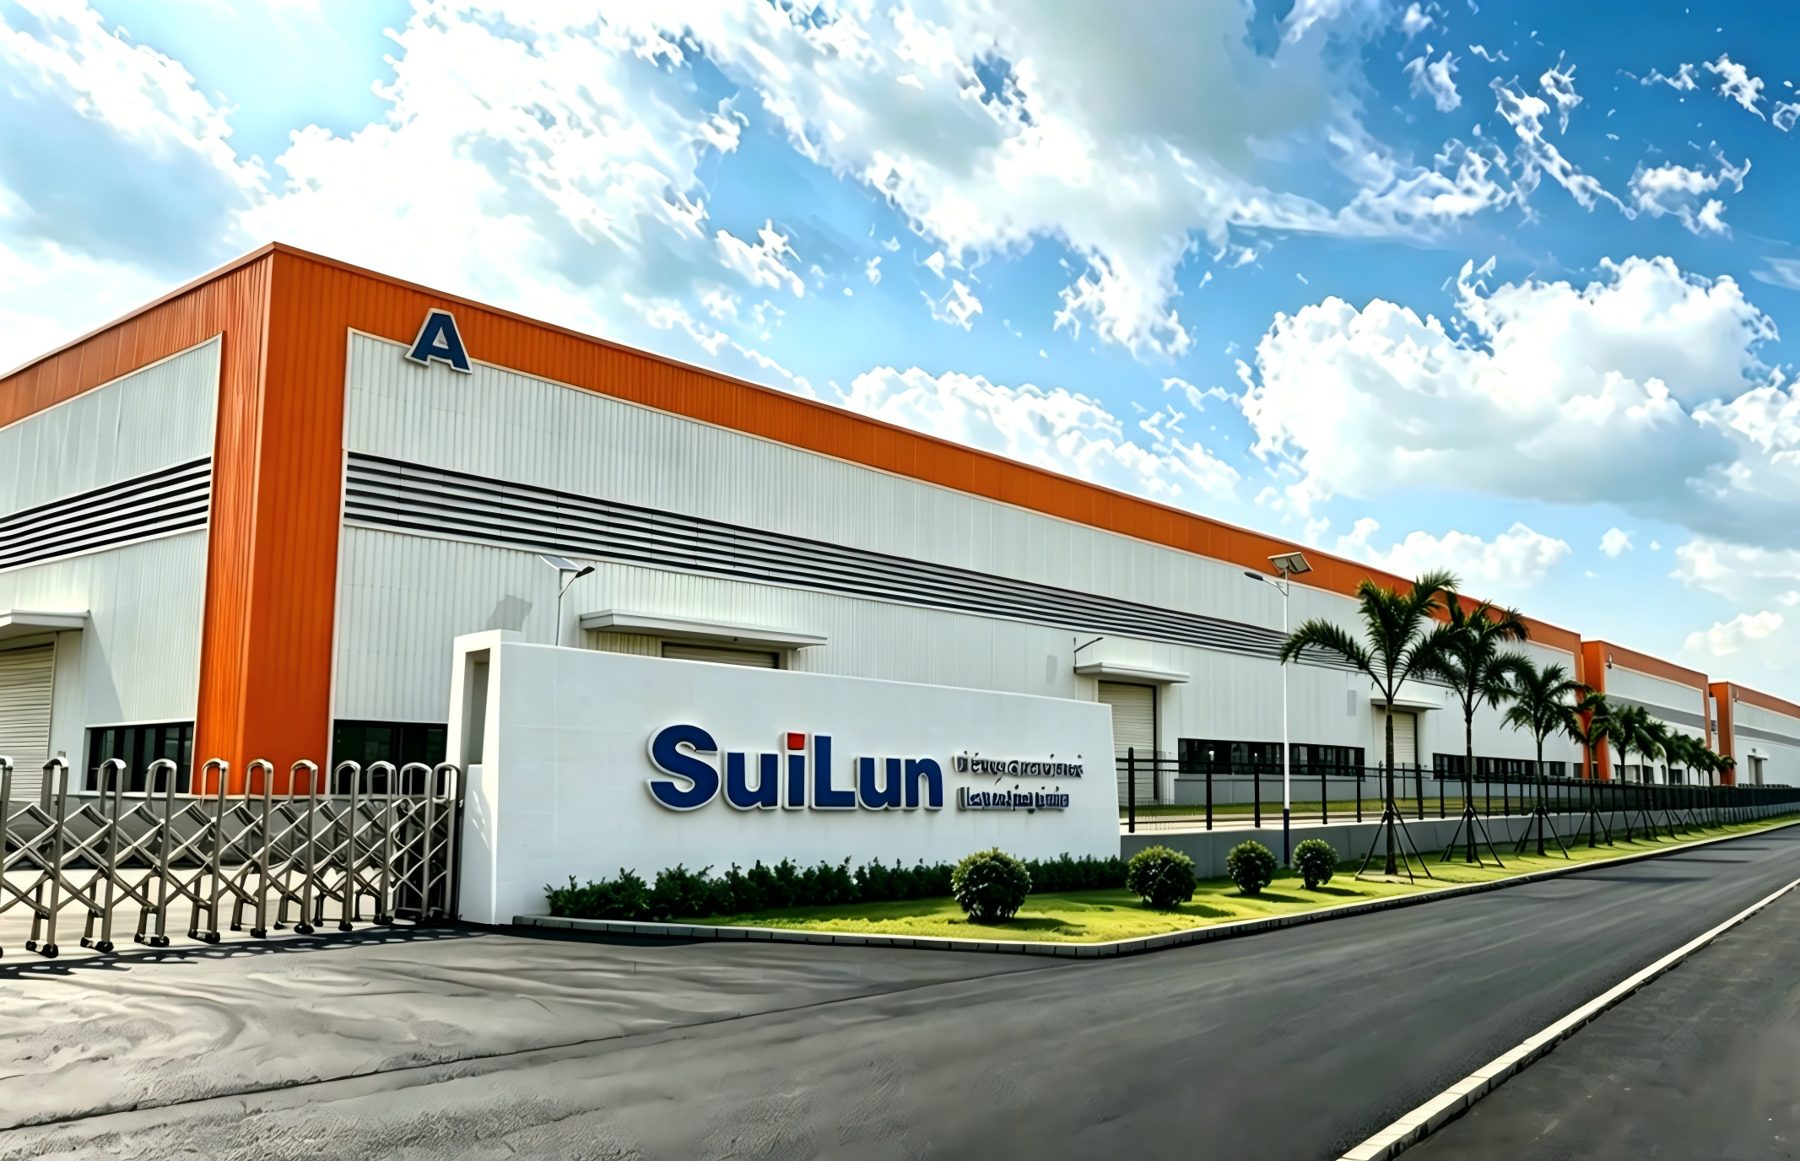
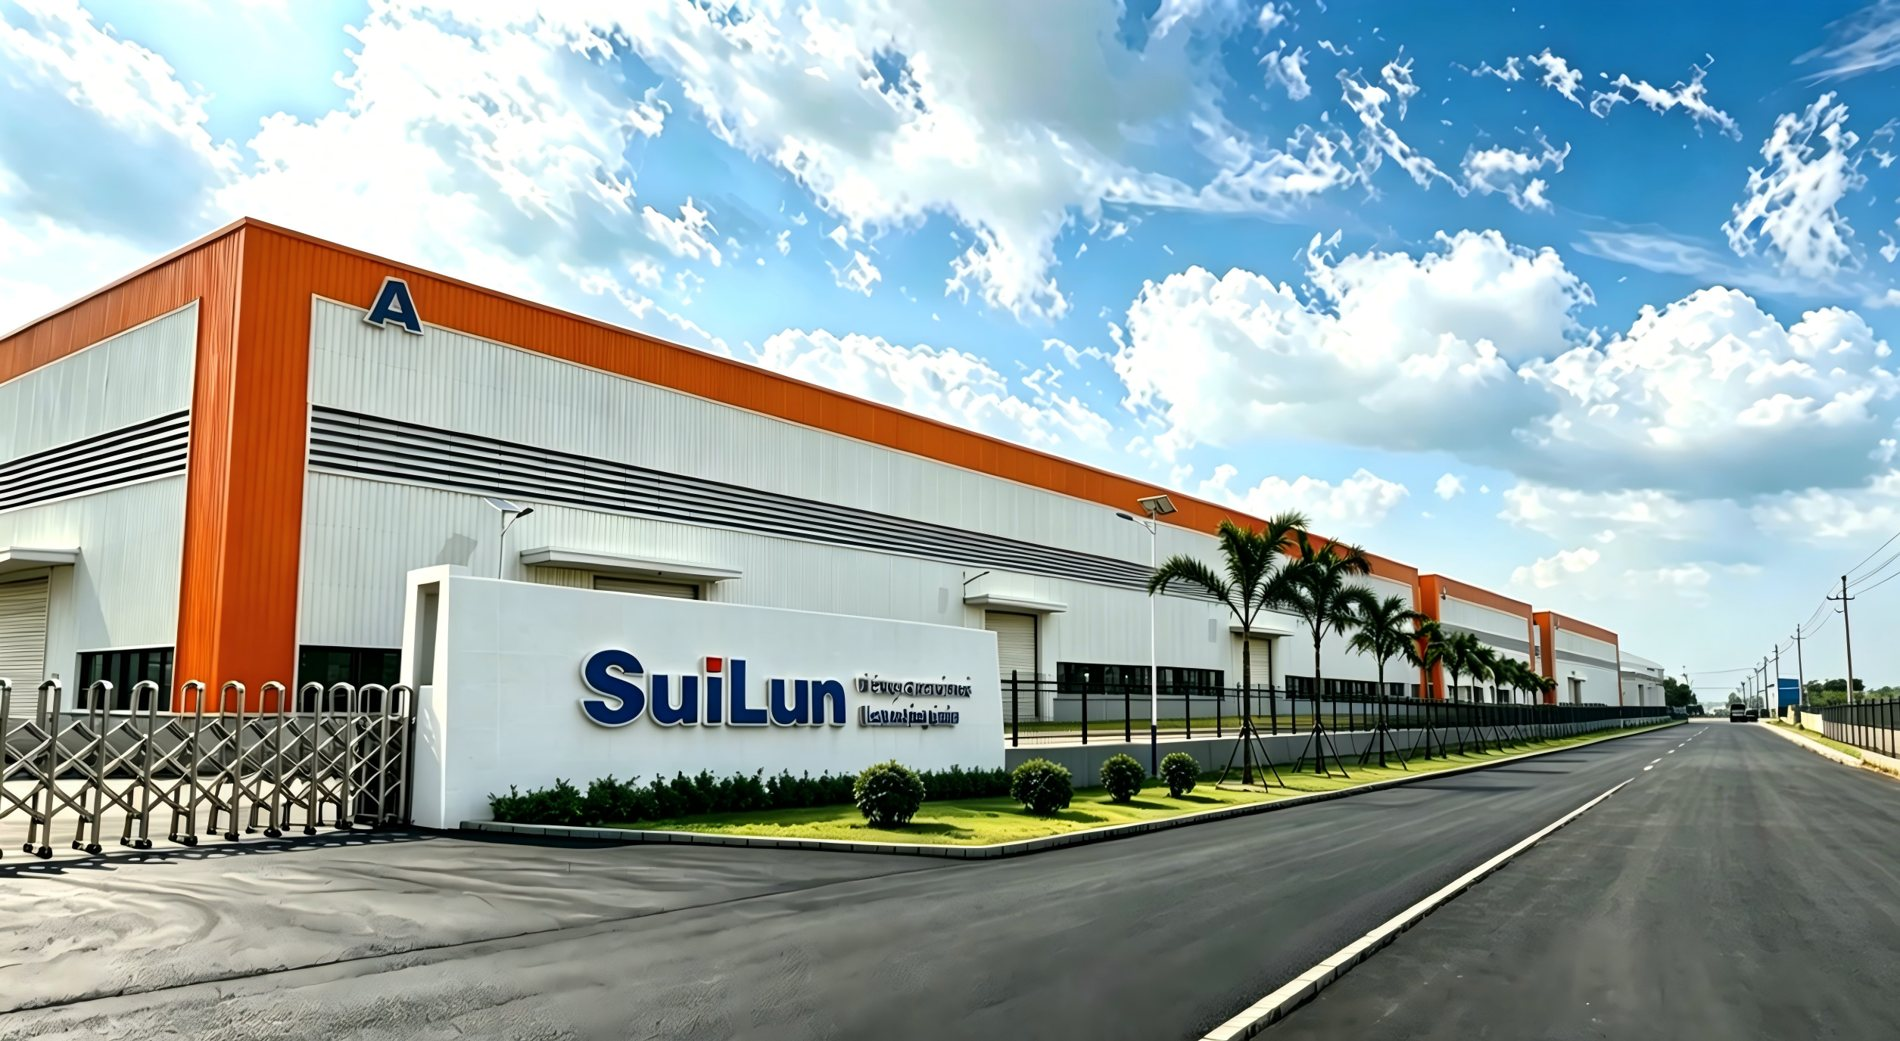
Show full factory panorama (all 3 buildings), no crop; overview img height auto

diff --git a/factory.html b/factory.html
@@ -31,7 +31,7 @@
   box-shadow: var(--shadow-lg);
   position: relative;
 }
-.overview-img img { width: 100%; height: 440px; object-fit: cover; }
+.overview-img img { width: 100%; height: auto; display: block; }
 .overview-img .img-tag {
   position: absolute; bottom: 20px; left: 20px;
   background: rgba(0,0,0,0.75); backdrop-filter: blur(8px);
